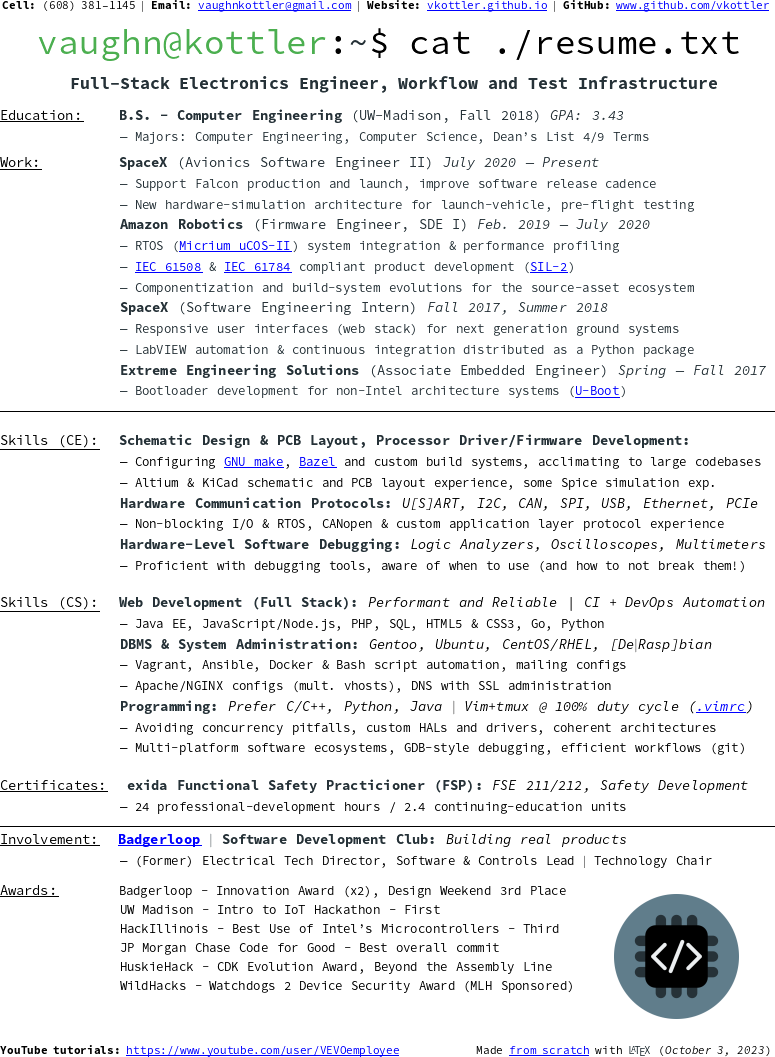
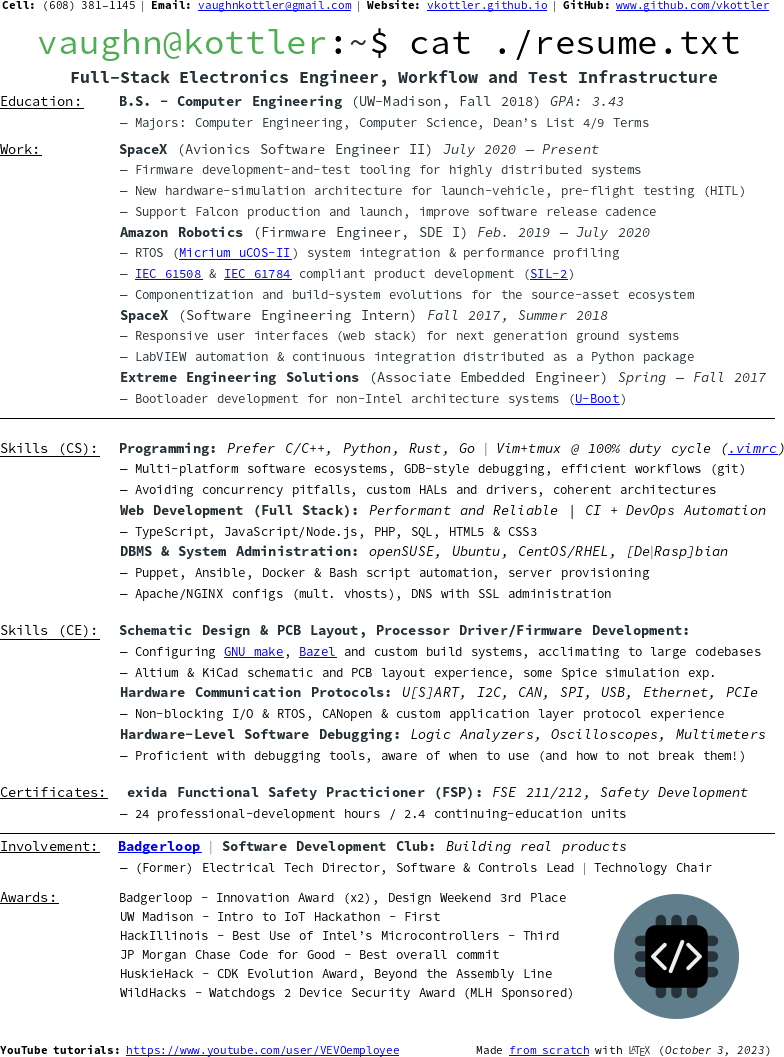
Some more updates

diff --git a/sections/skills_cs.tex b/sections/skills_cs.tex
@@ -2,28 +2,27 @@
 \begin{document}
 %
 \SECT{Skills (CS)}{1.4em}
-{Web Development (Full Stack)}
-{Performant and Reliable | CI + DevOps Automation}
+{Programming}
+{Prefer C/C++, Python, Rust, Go $\vert$ Vim+tmux @ 100\% duty cycle
+			(\HREF{https://github.com/vkottler/dotfiles/blob/master/.vimrc}
+			{.vimrc})}
 %
 {\begin{adjustwidth}{1.2in}{0in}\setstretch{1.25}
 	%
-	\SECTCONT{Java EE, JavaScript/Node.js, PHP, SQL,
-		HTML5 \& CSS3, Go, Python}
-	%
-	\SECTC{DBMS \& System Administration}
-		{Gentoo, Ubuntu, CentOS/RHEL, [De$\vert$Rasp]bian}
-		{Vagrant, Ansible, Docker \& Bash script automation, mailing configs}
-	\SECTCONT{Apache/NGINX configs (mult.\ vhosts),
-		DNS with SSL administration}
-	%
-	\SECTC{Programming}
-		{Prefer C/C++, Python, Java $\vert$ Vim+tmux @ 100\% duty cycle
-			(\HREF{https://github.com/vkottler/dotfiles/blob/master/.vimrc}
-			{.vimrc})}
-		{Avoiding concurrency pitfalls, custom HALs and drivers,
-			coherent architectures}
 	\SECTCONT{Multi-platform software ecosystems, GDB-style debugging,
 		efficient workflows (git)}
+	\SECTCONT{Avoiding concurrency pitfalls, custom HALs and drivers,
+			coherent architectures}
+	%
+	\SECTC{Web Development (Full Stack)}
+		{Performant and Reliable | CI + DevOps Automation}
+		{TypeScript, JavaScript/Node.js, PHP, SQL, HTML5 \& CSS3}
+	%
+	\SECTC{DBMS \& System Administration}
+		{openSUSE, Ubuntu, CentOS/RHEL, [De$\vert$Rasp]bian}
+		{Puppet, Ansible, Docker \& Bash script automation, server provisioning}
+	\SECTCONT{Apache/NGINX configs (mult.\ vhosts),
+		DNS with SSL administration}
 	%
 \end{adjustwidth}}
 \end{document}

diff --git a/sections/work.tex b/sections/work.tex
@@ -5,11 +5,11 @@
 {SpaceX}{Avionics Software Engineer II}{July 2020 --- Present}
 %
 {\begin{adjustwidth}{1.2in}{0in}\setstretch{1.25}
+	\SECTCONT{Firmware development-and-test tooling for highly distributed systems}
+	\SECTCONT{New hardware-simulation architecture for launch-vehicle,
+		pre-flight testing (HITL)}
 	\SECTCONT{Support Falcon production and launch, improve software
 		release cadence}
-	%
-	\SECTCONT{New hardware-simulation architecture for launch-vehicle,
-		pre-flight testing}
 	%
 	\WORK{Amazon Robotics}{Firmware Engineer, SDE I}{Feb.\ 2019 --- July 2020}
 	{RTOS (\HREF{https://www.micrium.com/rtos/kernels/}{Micrium uCOS-II})

diff --git a/main.tex b/main.tex
@@ -114,8 +114,8 @@
 \subfile{sections/work}\noindent
 \HR
 
-\subfile{sections/skills_ce}\noindent
 \subfile{sections/skills_cs}\noindent
+\subfile{sections/skills_ce}\noindent
 \subfile{sections/certificates}\noindent
 %\subfile{sections/leadership}\noindent
 \HR
